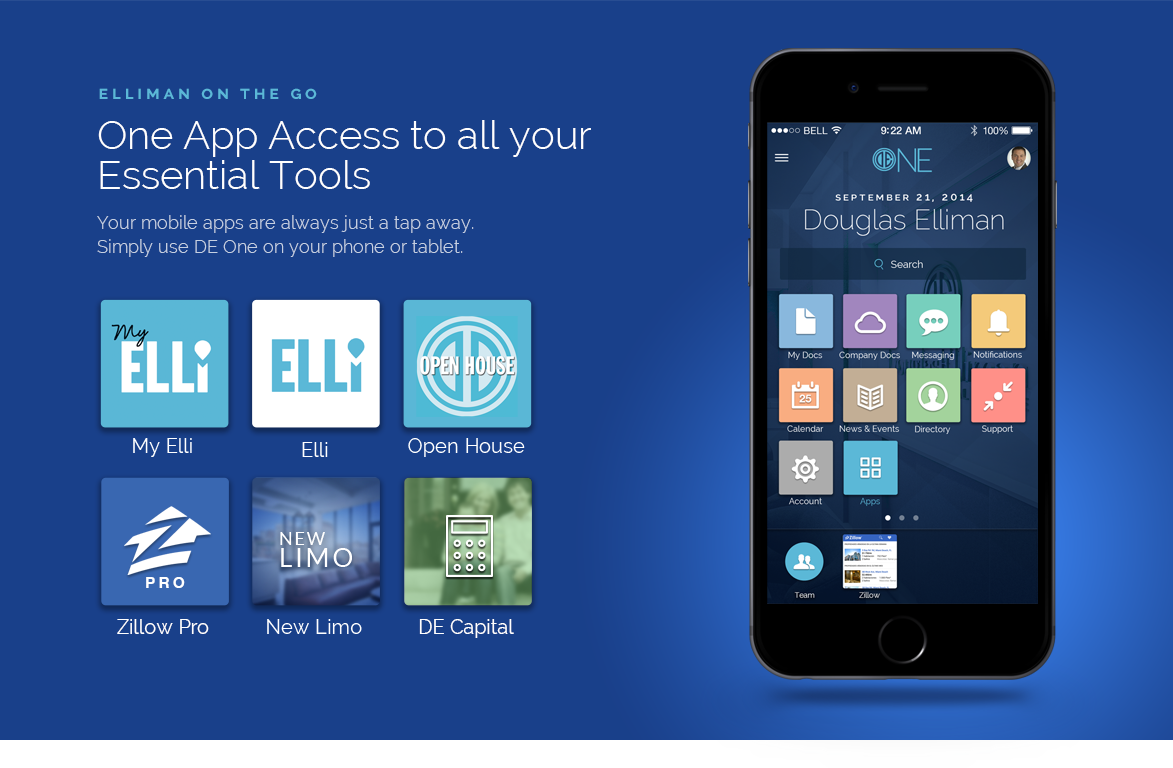
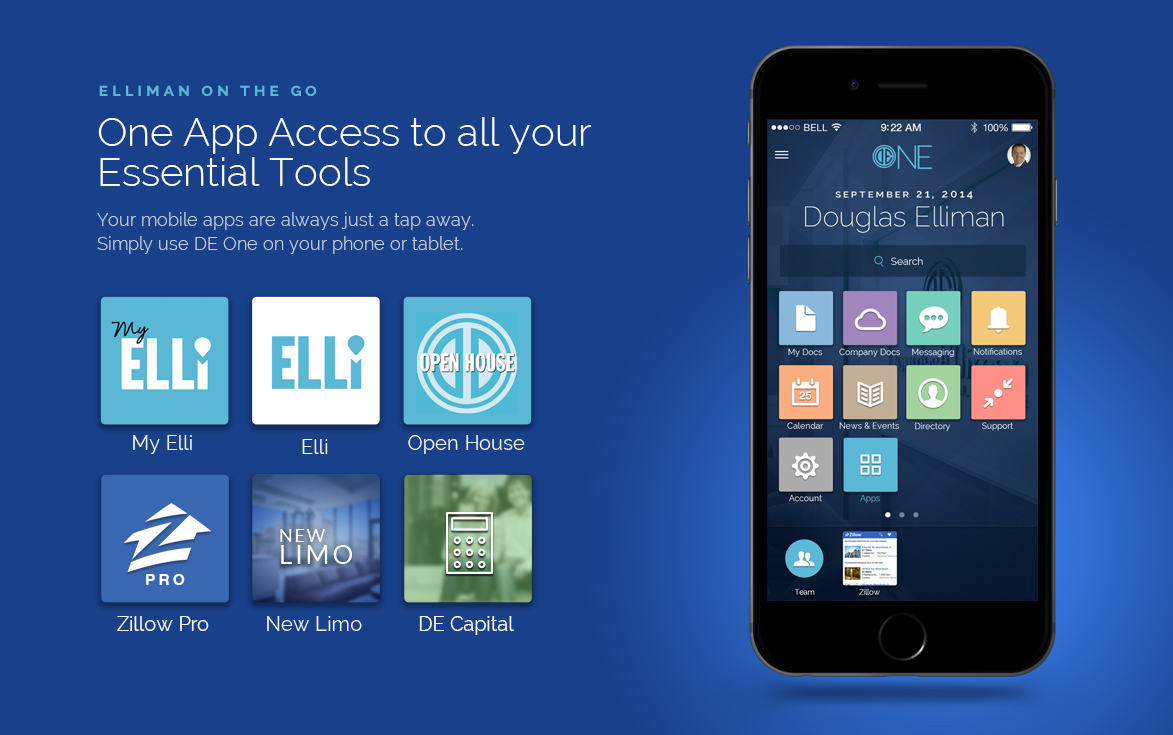
add shadows for apps page

diff --git a/packages/apps/apps.html b/packages/apps/apps.html
@@ -3,28 +3,28 @@
 
     <h2><i class="fa fa-desktop"></i> Desktop Apps</h2>
     <div class="row">
-      <div class="app col-sm-3">
-        <a href="http://edge.elliman.com" target="_blank"><img src="../../images/company-apps/edge.png" class="img-responsive"></a>
+      <div class="app col-md-3">
+        <a href="http://edge.elliman.com" target="_blank"><img src="../../images/company-apps/edge.png" class="img-responsive img-rounded"></a>
       </div>
-      <div class="app col-sm-3">
-        <a href="http://www.gothamphotony.com/" target="_blank"><img src="../../images/company-apps/gotham.png" class="img-responsive"></a>
+      <div class="app col-md-3">
+        <a href="http://www.gothamphotony.com/" target="_blank"><img src="../../images/company-apps/gotham.png" class="img-responsive img-rounded"></a>
       </div>
-      <div class="app col-sm-3">
-        <a href="http://www.xpressdocs.com/" target="_blank"><img src="../../images/company-apps/xpressdocs.png" class="img-responsive"></a>
+      <div class="app col-md-3">
+        <a href="http://www.xpressdocs.com/" target="_blank"><img src="../../images/company-apps/xpressdocs.png" class="img-responsive img-rounded"></a>
       </div>
-      <div class="app col-sm-3">
-        <a href="http://limo.elliman.com/" target="_blank"><img src="../../images/company-apps/limo.png" class="img-responsive"></a>
+      <div class="app col-md-3">
+        <a href="http://limo.elliman.com/" target="_blank"><img src="../../images/company-apps/limo.png" class="img-responsive img-rounded"></a>
       </div>
     </div>
     <div class="row">
-      <div class="app col-sm-3">
-        <a href="https://sso.mlsstratus.com/idp/Authn/UserPassword" target="_blank"><img src="../../images/company-apps/stratus.png" class="img-responsive"></a>
+      <div class="app col-md-3">
+        <a href="https://sso.mlsstratus.com/idp/Authn/UserPassword" target="_blank"><img src="../../images/company-apps/stratus.png" class="img-responsive img-rounded"></a>
       </div>
     </div>
 
     <h2><i class="fa fa-mobile"></i> Mobile Apps</h2>
     <div class="row">
-      <div class="col-sm-12">
+      <div class="col-sm-12 mobile-banner">
         <img src="../../images/company-apps/mobile-banner.png" class="img-responsive" />
       </div>
     </div>

diff --git a/packages/apps/apps.less b/packages/apps/apps.less
@@ -4,6 +4,11 @@
     margin-top: 30px;
     .app {
       margin-bottom: 30px;
+      img {
+        -webkit-box-shadow: 0px 18px 80px -5px rgba(0,0,0,0.75);
+        -moz-box-shadow: 0px 18px 80px -5px rgba(0,0,0,0.75);
+        box-shadow: 0px 18px 80px -5px rgba(0,0,0,0.75);
+      }
     }
     h2 {
       text-transform: uppercase;
@@ -26,6 +31,14 @@
       i.fa-desktop {
         padding: 0 20px 0 5px;
       }
+    }
+  }
+  .mobile-banner {
+    padding-bottom: 80px;
+    img {
+      -webkit-box-shadow: 0px 50px 101px 2px rgba(0,0,0,0.75);
+      -moz-box-shadow: 0px 50px 101px 2px rgba(0,0,0,0.75);
+      box-shadow: 0px 50px 101px 2px rgba(0,0,0,0.75);
     }
   }
 }
